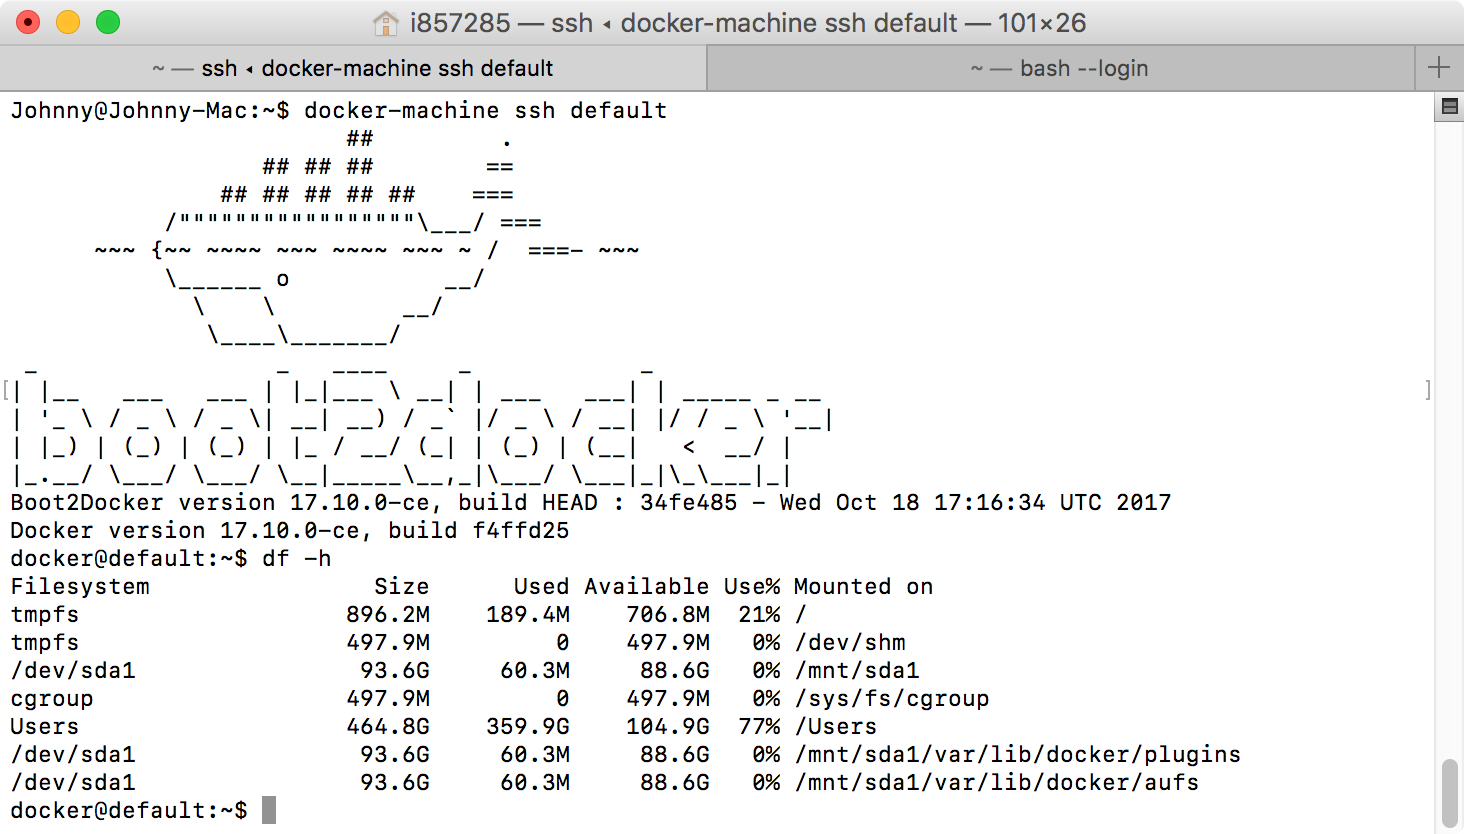
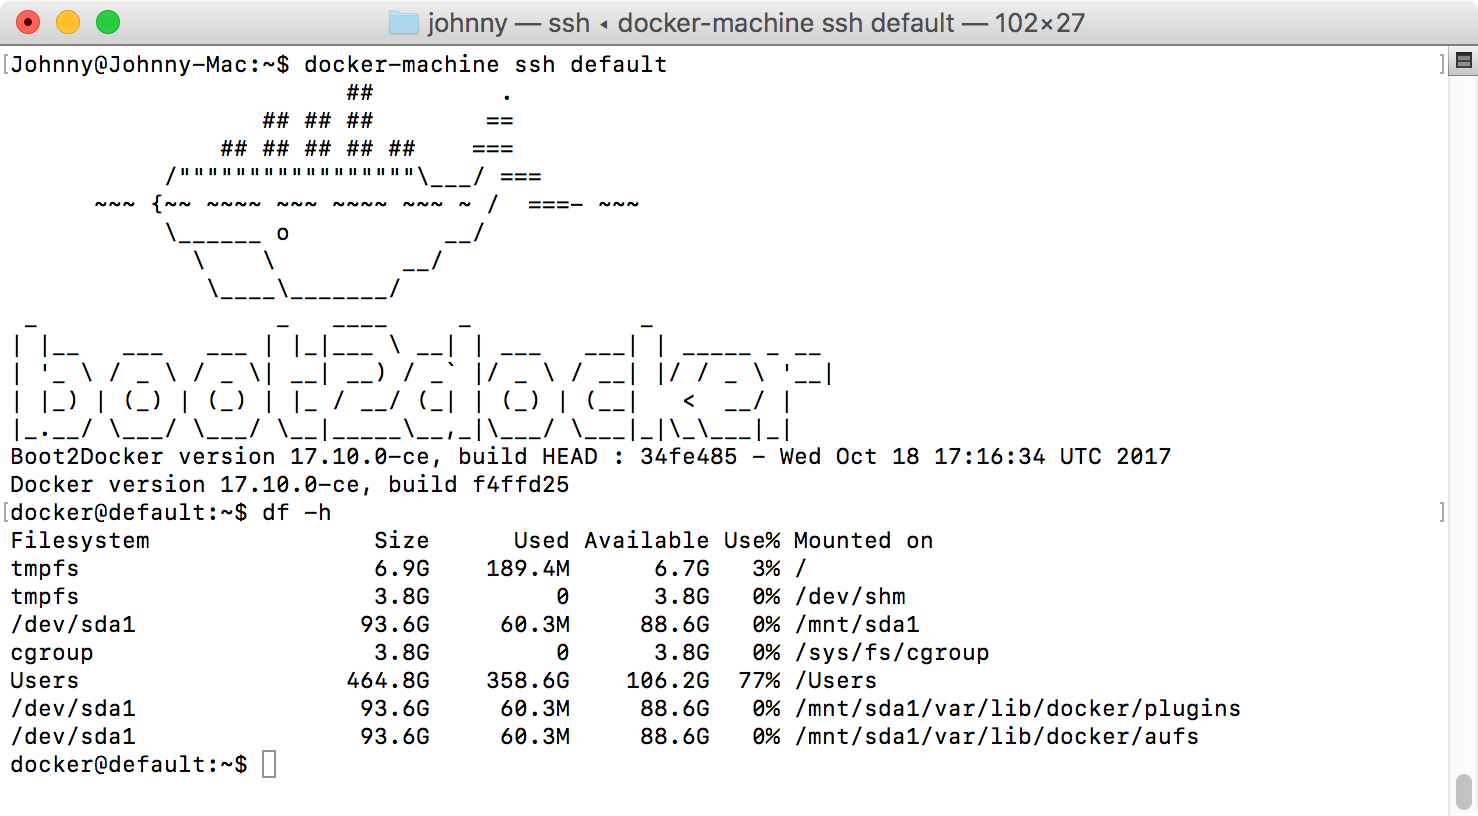
new docker machine

diff --git a/_posts/2017-03-02-creating-docker-machine-with-more-disk-space.md b/_posts/2017-03-02-creating-docker-machine-with-more-disk-space.md
@@ -47,14 +47,13 @@ Check all existing docker machines.
 ```sh
 $ docker-machine ls
 ```
-![MIME Type](/public/pics/2017-03-02/dockermachine.png)
+![MIME Type](/public/pics/2017-03-02/dockermachine.png){:width="700px"}  
 
 Delete the docker machine named `default`.
 ```sh
 $ docker-machine rm default
 ```
-![MIME Type](/public/pics/2017-03-02/deletedockermachine.png)
-
+![MIME Type](/public/pics/2017-03-02/deletedockermachine.png){:width="700px"}  
 ### 3.4 Creating New Docker Machine
 Create a new docker machine with name=`default`, memory size=`8GB` and disk size=`100GB`.
 ```sh
@@ -66,8 +65,37 @@ Open Kitematic, docker machine is back.
 ![MIME Type](/public/pics/2017-03-02/kitematic.png)
 Check the disk space of the new docker machine, now it has 88GB free space.
 ![MIME Type](/public/pics/2017-03-02/diskspacenew.png){:width="700px"}  
+### 3.5 Creating New Docker Machine
+Install 'mssql-serveer-linux' again. See, it is successfully installed.
+![MIME Type](/public/pics/2017-03-02/containercreated.png)
+Add new Environment Variable ACCEPT_EULA=Y, save.
+![MIME Type](/public/pics/2017-03-02/accepteula.png)
+Now, the container for MSSQL Server is running. One issue is, the IP address of docker machine becomes 192.168.99.106.
+![MIME Type](/public/pics/2017-03-02/mssqlrunning.png)
+If you check with `docker-machine ls` command, you will see the same IP address.
+![MIME Type](/public/pics/2017-03-02/dockermachineip.png){:width="700px"}  
 
-## 4. References
+## 4. Resetting IP Address for Docker Machine
+If you want the original IP address 192.168.99.100 back for the docker machine, take the following actions.
+### 4.1 Resetting IP Address
+Run the following command to reset the IP address of `default` docker machine to `192.168.99.100`.
+```sh
+$ echo "ifconfig eth1 192.168.99.100 netmask 255.255.255.0 broadcast 192.168.99.255 up" | docker-machine ssh default sudo tee /var/lib/boot2docker/bootsync.sh > /dev/null
+```
+### 4.2 Regenerating Certificates
+Regenerate TLS certificates and update the machine with new certs.
+```sh
+$ docker-machine regenerate-certs default
+```
+![MIME Type](/public/pics/2017-03-02/resetip.png){:width="700px"}  
+### 4.3 Verifying IP Address
+Restart the default virtual machine. Check with `docker-machine ls` command, you will see the IP address is changed to `192.168.99.100`.
+![MIME Type](/public/pics/2017-03-02/newipaddress.png){:width="700px"}  
+In Kitematic, same original IP.
+![MIME Type](/public/pics/2017-03-02/newipaddress2.png)
+
+## 5. References
 * [Managing disk space in your Docker VM](http://support.divio.com/local-development/docker/managing-disk-space-in-your-docker-vm)
 * [Docker Machine: No space left on device](https://stackoverflow.com/questions/31909979/docker-machine-no-space-left-on-device)
 * [Docker for Mac vs. Docker Toolbox](https://docs.docker.com/docker-for-mac/docker-toolbox/#the-docker-for-mac-environment)
+* [Is there a way to force docker-machine to create vm with a specific ip?](https://stackoverflow.com/questions/34336218/is-there-a-way-to-force-docker-machine-to-create-vm-with-a-specific-ip)

diff --git a/_posts/2017-03-05-installing-microsoft-sql-server-in-docker.md b/_posts/2017-03-05-installing-microsoft-sql-server-in-docker.md
@@ -1,0 +1,54 @@
+---
+layout: post
+key: blog
+title: "Installing Microsoft SQL Server in Docker"
+date: 2017-03-05
+tags: [SQL Server, Docker]
+---
+
+> Introduce how to create Microsoft SQL Server in Docker.
+
+## 1. What is SQL Server?
+SQL Server is a database.
+
+## 2. Creating SQL Server Container in Docker
+### 2.1 Installing Docker and Kitematic
+If you haven’t installed Docker and Kitematic, please install Docker Toolbox by referring to another posting [Install Docker Toolbox and Kitematic on Mac]({% link _posts/2016-09-11-installing-docker-toolbox-and-kitematic-on-mac.md %}).
+### 2.2 Creating SQL Server Container
+Search `mssql-server-linux` in Kitematic, select the official image, and click Create button.
+![MIME Type](/public/pics/2017-03-05/dockersearch.png)
+SQL Server for Linux image will be downloaded and a container will be created and running.
+![MIME Type](/public/pics/2017-03-05/installing.png)
+The installation will take several minutes. Finally, the container is created. However, it is stopped. There are some configurations we have to set before using it.
+![MIME Type](/public/pics/2017-03-05/containercreated.png)
+### 2.3 Add ENVs
+Click the Preview button, web browser will be opened to access Jenkins application. You need to find the password in the given file to unlock Jenkins.
+![MIME Type](/public/pics/2017-03-05/accepteula.png)
+Open container terminal by clicking on the 'EXEC' button in Kitematic. Run the following commands to get the password from secret file `initialAdminPassword`.
+```sh
+$ cd var/jenkins_home/secrets/
+$ more initialAdminPassword
+```
+![MIME Type](/public/pics/2016-10-08/dockerpassword.png){:width="600px"}
+Copy this password and paste it to the input box in Getting Started page, continue.
+![MIME Type](/public/pics/2016-10-08/dockersetpassword.png)
+In the next page, select 'Install Suggested Plugins'.
+![MIME Type](/public/pics/2016-10-08/dockerplugin.png)
+Jenkins starts to install plugins.
+![MIME Type](/public/pics/2016-10-08/dockerinstallplugin.png)
+In the next page, you need to create an admin user.
+![MIME Type](/public/pics/2016-10-08/dockercreateuser.png)
+Setup is complete, ready for use.
+![MIME Type](/public/pics/2016-10-08/dockerready.png)
+Finally, we see the homepage of Jenkins, which is hosted in Docker Container.
+![MIME Type](/public/pics/2016-10-08/dockerhomepage.png)
+
+### 2.4 Commands for Jenkins
+The following commands when appended to the Jenkins instance URL will carry out the relevant actions on the Jenkins instance.
+* http://192.168.99.100:32769/cli/ - full list of commands
+* http://192.168.99.100:32769/restart - restart jenkins
+
+## 3. References
+* [Official Website for Jenkins](https://jenkins.io/index.html)
+* [mssql-server-linux docker hub](https://hub.docker.com/r/microsoft/mssql-server-linux/)
+* [Jenkins Tutorial](https://www.tutorialspoint.com/jenkins/index.htm)

diff --git a/_posts/2016-02-08-installing-virtualBox-and-creating-ubuntu-vm.md b/_posts/2016-02-08-installing-virtualBox-and-creating-ubuntu-vm.md
@@ -71,8 +71,12 @@ $ Icon=/opt/google/chrome/product_logo_64.png
 ```
 ![chromeicon](/public/pics/2016-02-10/chromeicon.png){:width="700px"}  
 
-## 3. Others
-### 3.1 Increasing Hard Disk Size of Virtual Machine
+## 3. Commands for VirtualBox
+### 3.1 List Existing Virtual Machines
+```sh
+$ VBoxManage list vms
+```
+### 3.2 Increasing Hard Disk Size of Virtual Machine
 Sometimes, hard disk of your VM is out of storage. You need to manually increase the storage. Here is the syntax in VirtualBox.
 ```sh
 VBoxManage modifyhd YOUR_HARD_DISK.vdi --resize SIZE_IN_MB
@@ -85,3 +89,4 @@ $ VBoxManage modifyhd Ubuntu.vdi --resize 20480 // resize the the storage of Ubu
 
 ## 4. References
 * [How To Increase Virtualbox Disk Size For Dynamically Allocated Disks](https://www.linuxbabe.com/virtualbox/how-to-increase-virtualbox-disk-size-for-dynamically-allocated-disks)
+* [Controlling VirtualBox from the Command Line](http://www.oracle.com/technetwork/articles/servers-storage-admin/manage-vbox-cli-2264359.html)
